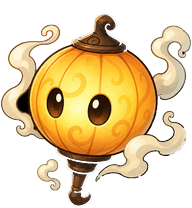
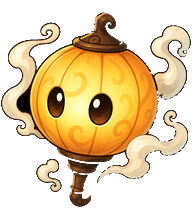
BRE-63: Redo fen Style D sprites and harden edge cutouts. (#59)
Replace moss-golem Peat with peat/mire art; strip soft edge fringe without punching body texture holes.

diff --git a/scripts/process-imagine-assets.py b/scripts/process-imagine-assets.py
@@ -58,13 +58,67 @@ def punch_dark_studio_bg(im: Image.Image, tol: int = 28) -> Image.Image:
     return src
 
 
+def is_soft_rim(px, alpha_cut: int = 160) -> bool:
+    """Semi-transparent fringe only — never punch solid peat/ember body color."""
+    _r, _g, _b, a = px
+    return a < alpha_cut
+
+
+def punch_soft_rim(im: Image.Image) -> Image.Image:
+    """After dark cutout, erase edge-connected semi-transparent fringe."""
+    src = im.convert("RGBA")
+    w, h = src.size
+    px = src.load()
+    stack: list[tuple[int, int]] = []
+    visited = [[False] * w for _ in range(h)]
+    for y in range(h):
+        for x in range(w):
+            if px[x, y][3] < 8:
+                stack.append((x, y))
+                visited[y][x] = True
+
+    while stack:
+        x, y = stack.pop()
+        for nx, ny in ((x - 1, y), (x + 1, y), (x, y - 1), (x, y + 1)):
+            if nx < 0 or ny < 0 or nx >= w or ny >= h or visited[ny][nx]:
+                continue
+            visited[ny][nx] = True
+            if not is_soft_rim(px[nx, ny]):
+                continue
+            px[nx, ny] = (0, 0, 0, 0)
+            stack.append((nx, ny))
+    return src
+
+
 SCALE = 4
+
+
+def harden_edge_alpha(im: Image.Image, alpha_cut: int = 160) -> None:
+    """Zero soft pixels that touch transparency (post-downscale fringe only)."""
+    px = im.load()
+    w, h = im.size
+    doomed: list[tuple[int, int]] = []
+    for y in range(h):
+        for x in range(w):
+            r, g, b, a = px[x, y]
+            if a < 8 or a >= alpha_cut:
+                continue
+            edge = False
+            for nx, ny in ((x - 1, y), (x + 1, y), (x, y - 1), (x, y + 1)):
+                if nx < 0 or ny < 0 or nx >= w or ny >= h or px[nx, ny][3] < 8:
+                    edge = True
+                    break
+            if edge:
+                doomed.append((x, y))
+    for x, y in doomed:
+        px[x, y] = (0, 0, 0, 0)
 
 
 def process(src_name, dest_rel, max_w, max_h, pad=4, dark_studio_bg=False):
     im = Image.open(SRC / src_name).convert("RGBA")
     if dark_studio_bg:
         im = punch_dark_studio_bg(im)
+        im = punch_soft_rim(im)
     else:
         # Light chroma only for Imagine sheets; black-studio art keeps pale
         # highlights/smoke that would match KEYS (eye glints, bog wisps).
@@ -82,6 +136,8 @@ def process(src_name, dest_rel, max_w, max_h, pad=4, dark_studio_bg=False):
     padded = Image.new("RGBA", (im.width + pad * 2, im.height + pad * 2), (0, 0, 0, 0))
     padded.paste(im, (pad, pad))
     padded.thumbnail((max_w, max_h), Image.Resampling.LANCZOS)
+    if dark_studio_bg:
+        harden_edge_alpha(padded)
     canvas = Image.new("RGBA", (max_w, max_h), (0, 0, 0, 0))
     ox = (max_w - padded.width) // 2
     oy = max_h - padded.height
